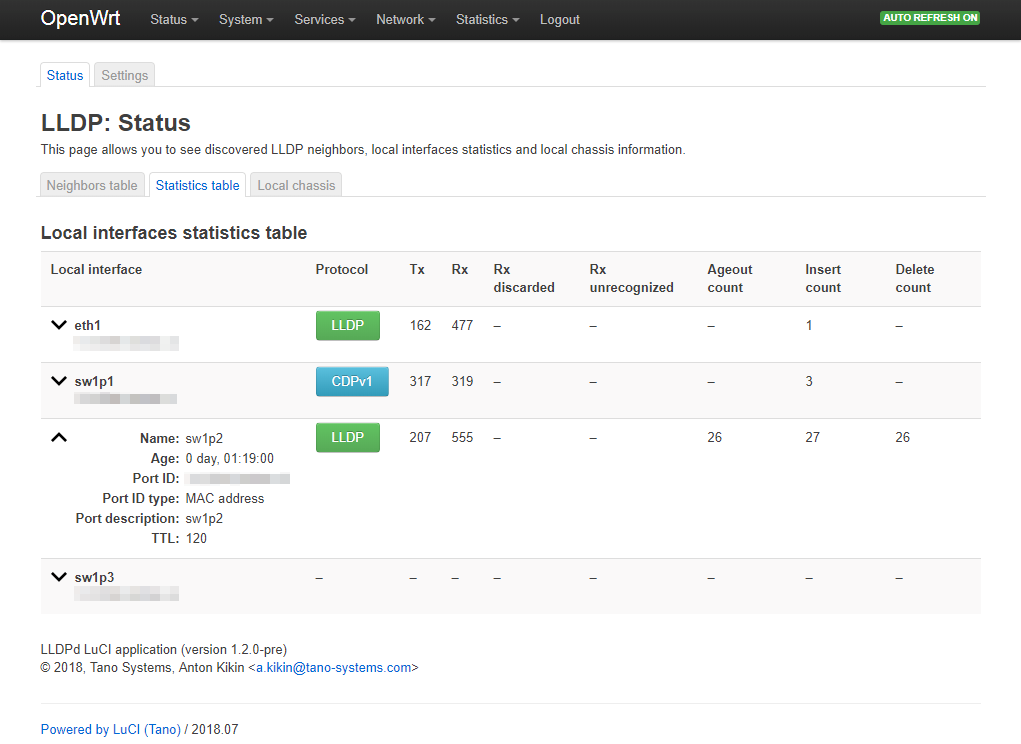
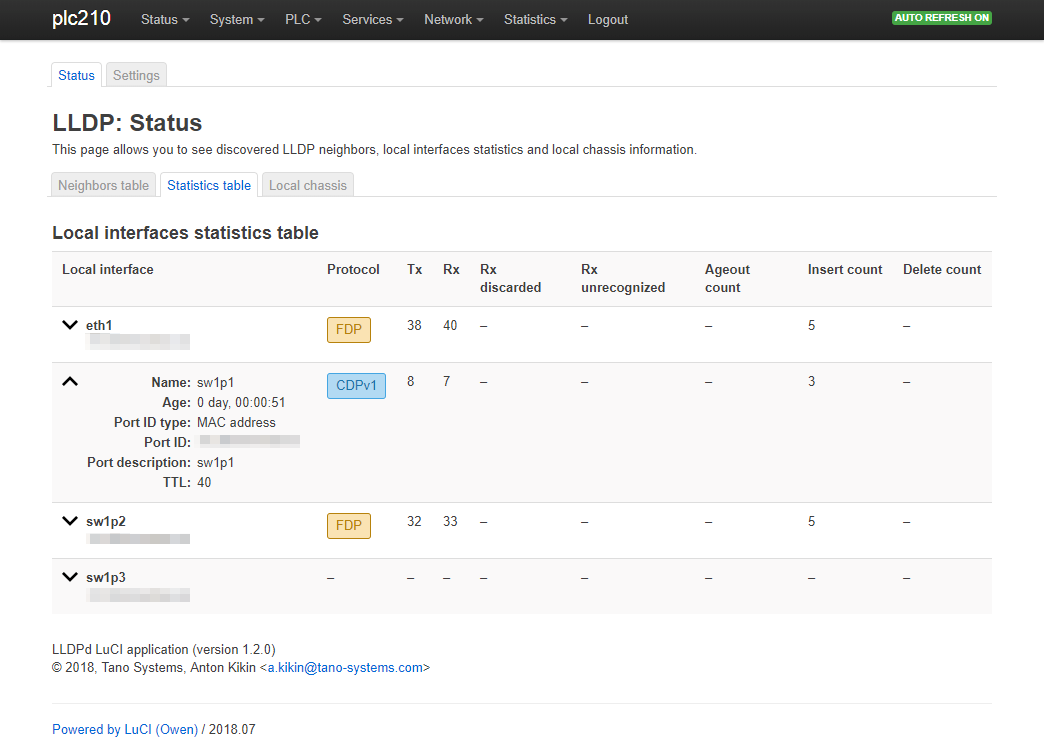
Add support for the official OpenWrt and Material LuCI themes
Previously supported only Bootstrap LuCI theme.

diff --git a/luasrc/view/lldpd/filter_select.htm b/luasrc/view/lldpd/filter_select.htm
@@ -55,6 +55,15 @@
 
 <% local selected = tonumber((self:cfgvalue(section) or self.default)) %>
 
+<script type="text/javascript">//<![CDATA[
+	function lldpd_filter_onclick(row, fid) {
+		document.getElementById('<%=cbid .. "-"%>' + fid).checked = true;
+		for (var i = 0; i < 20; i++)
+			document.getElementById('<%=cbid .. "-tr-"%>' + i).className = '';
+		row.className = 'lldpd-filter-selected';
+	}
+//]]></script>
+
 <table class="lldpd-filter" id="<%=cbid%>-table" data-selected="<%=selected%>">
 	<thead>
 		<tr>
@@ -111,21 +120,15 @@
 			local i
 			local fid = idx - 1
 
-			%><tr id="<%=cbid .. "-tr-" .. fid%>" onclick="
-				document.getElementById('<%=cbid .. "-" .. fid%>').checked = true;
-				for (var i = 0; i < 20; i++)
-					document.getElementById('<%=cbid .. "-tr-"%>' + i).className = '';
-				this.className = 'lldpd-filter-selected';
-			"<%
-				if fid == selected then
-				%>class="lldpd-filter-selected"<%
-			end
+			%>
+			<tr id="<%=cbid .. "-tr-" .. fid%>" onclick="lldpd_filter_onclick(this, '<%=fid%>')" <%
+				if fid == selected then %>class="lldpd-filter-selected"<% end
 			%>><td><input class="cbi-input-radio" data-update="click change" type="radio"<%=
 				attr("id", cbid .. "-" .. fid) ..
 				attr("name", cbid) ..
 				attr("value", fid) ..
-				ifattr(selected == fid, "checked", "checked")%>
-			/></td><td><%=fid%></td><%
+				ifattr(selected == fid, "checked", "checked")
+			%>/></td><td><%=fid%></td><%
 
 			for i = 1,6 do
 				%><td><%=filter_value(f[i])%></td><%
@@ -136,6 +139,7 @@
 	%>
 	</tbody>
 </table>
+
 <%
 self.description = self.description or ''
 self.description =

diff --git a/htdocs/luci-static/resources/lldpd/lldpd.js b/htdocs/luci-static/resources/lldpd/lldpd.js
@@ -13,7 +13,7 @@ function lldpd_fmt_number(v)
 	if (parseInt(v))
 		return v
 
-	return '&ndash;'
+	return '&#8211;'
 }
 
 function lldpd_fmt_port_id_type(v)
@@ -33,15 +33,19 @@ function lldpd_fmt_port_id_type(v)
 function lldpd_fmt_protocol(v)
 {
 	if (v == 'unknown')
-		return "&ndash;"
+		return "&#8211;"
 	else if (v == 'LLDP')
-		return '<span class="alert-message success">' + v + '</span>'
+		return '<span class="lldpd-protocol-badge lldpd-protocol-lldp">' + v + '</span>'
 	else if ((v == 'CDPv1') || (v == 'CDPv2'))
-		return '<span class="alert-message info">' + v + '</span>'
-	else if ((v == 'FDP') || (v == 'EDP') || (v == 'SONMP'))
-		return '<span class="alert-message warning">' + v + '</span>'
+		return '<span class="lldpd-protocol-badge lldpd-protocol-cdp">' + v + '</span>'
+	else if (v == 'FDP')
+		return '<span class="lldpd-protocol-badge lldpd-protocol-fdp">' + v + '</span>'
+	else if (v == 'EDP')
+		return '<span class="lldpd-protocol-badge lldpd-protocol-edp">' + v + '</span>'
+	else if (v == 'SONMP')
+		return '<span class="lldpd-protocol-badge lldpd-protocol-sonmp">' + v + '</span>'
 	else
-		return '<span class="alert-message error">' + v + '</span>'
+		return '<span class="lldpd-protocol-badge">' + v + '</span>'
 }
 
 function lldpd_kvtable_add_row(description, value)
@@ -105,7 +109,6 @@ function lldpd_fmt_chassis_kvtable(ch)
 		}
 
 		unfolded += lldpd_kvtable_add_row(_("Capabilities"), caps)
-		unfolded += "</td></tr>"
 	}
 
 	unfolded += "</table>"

diff --git a/luasrc/view/lldpd/status.htm b/luasrc/view/lldpd/status.htm
@@ -20,6 +20,27 @@
 	table.lldpd-kvtable td:last-of-type { width: 100%; }
 
 	.lldpd-table img { cursor: pointer; }
+
+	.lldpd-protocol-badge {
+		display: inline-block;
+		width: fit-content !important;
+		padding: 3px 8px;
+		border-radius: 3px;
+		width: 100%;
+		background-color: #e6e6e6;
+		border: solid 1px #b9b9b9;
+		color: #595959;
+	}
+
+	.lldpd-protocol-badge.lldpd-protocol-lldp  { background-color: #b7efcf; border-color: #2abd69; color: #165e34; }
+	.lldpd-protocol-badge.lldpd-protocol-cdp   { background-color: #b2daf3; border-color: #46a6e2; color: #1a74ac; }
+	.lldpd-protocol-badge.lldpd-protocol-fdp   { background-color: #f9e3b3; border-color: #b7820f; color: #b7820f; }
+	.lldpd-protocol-badge.lldpd-protocol-edp   { background-color: #f9e3f9; border-color: #e380e3; color: #b70f82; }
+	.lldpd-protocol-badge.lldpd-protocol-sonmp { background-color: #ffcdb1; border-color: #fe8744; color: #d74d00; }
+
+	.lldpd-table span.alert-message {
+		line-height: 28px;
+	}
 </style>
 
 <h2 name="content"><%:LLDP: Status%></h2>

diff --git a/CHANGELOG.md b/CHANGELOG.md
@@ -8,8 +8,13 @@ All dates in this document are in `DD.MM.YYYY` format.
 
 ## [Unreleased]
 ### Added
+- Added support for the official OpenWrt and Material LuCI themes.
+  Previously supported only Bootstrap LuCI theme.
 - Enable/disable service checkbox.
 - Additional JavaScript checks for case when LLDPd not started.
+
+### Changed
+- Update screenshots for neighbors and statistics tables.
 
 ## [Version 1.2.0] (15.12.2018)
 ### Added
